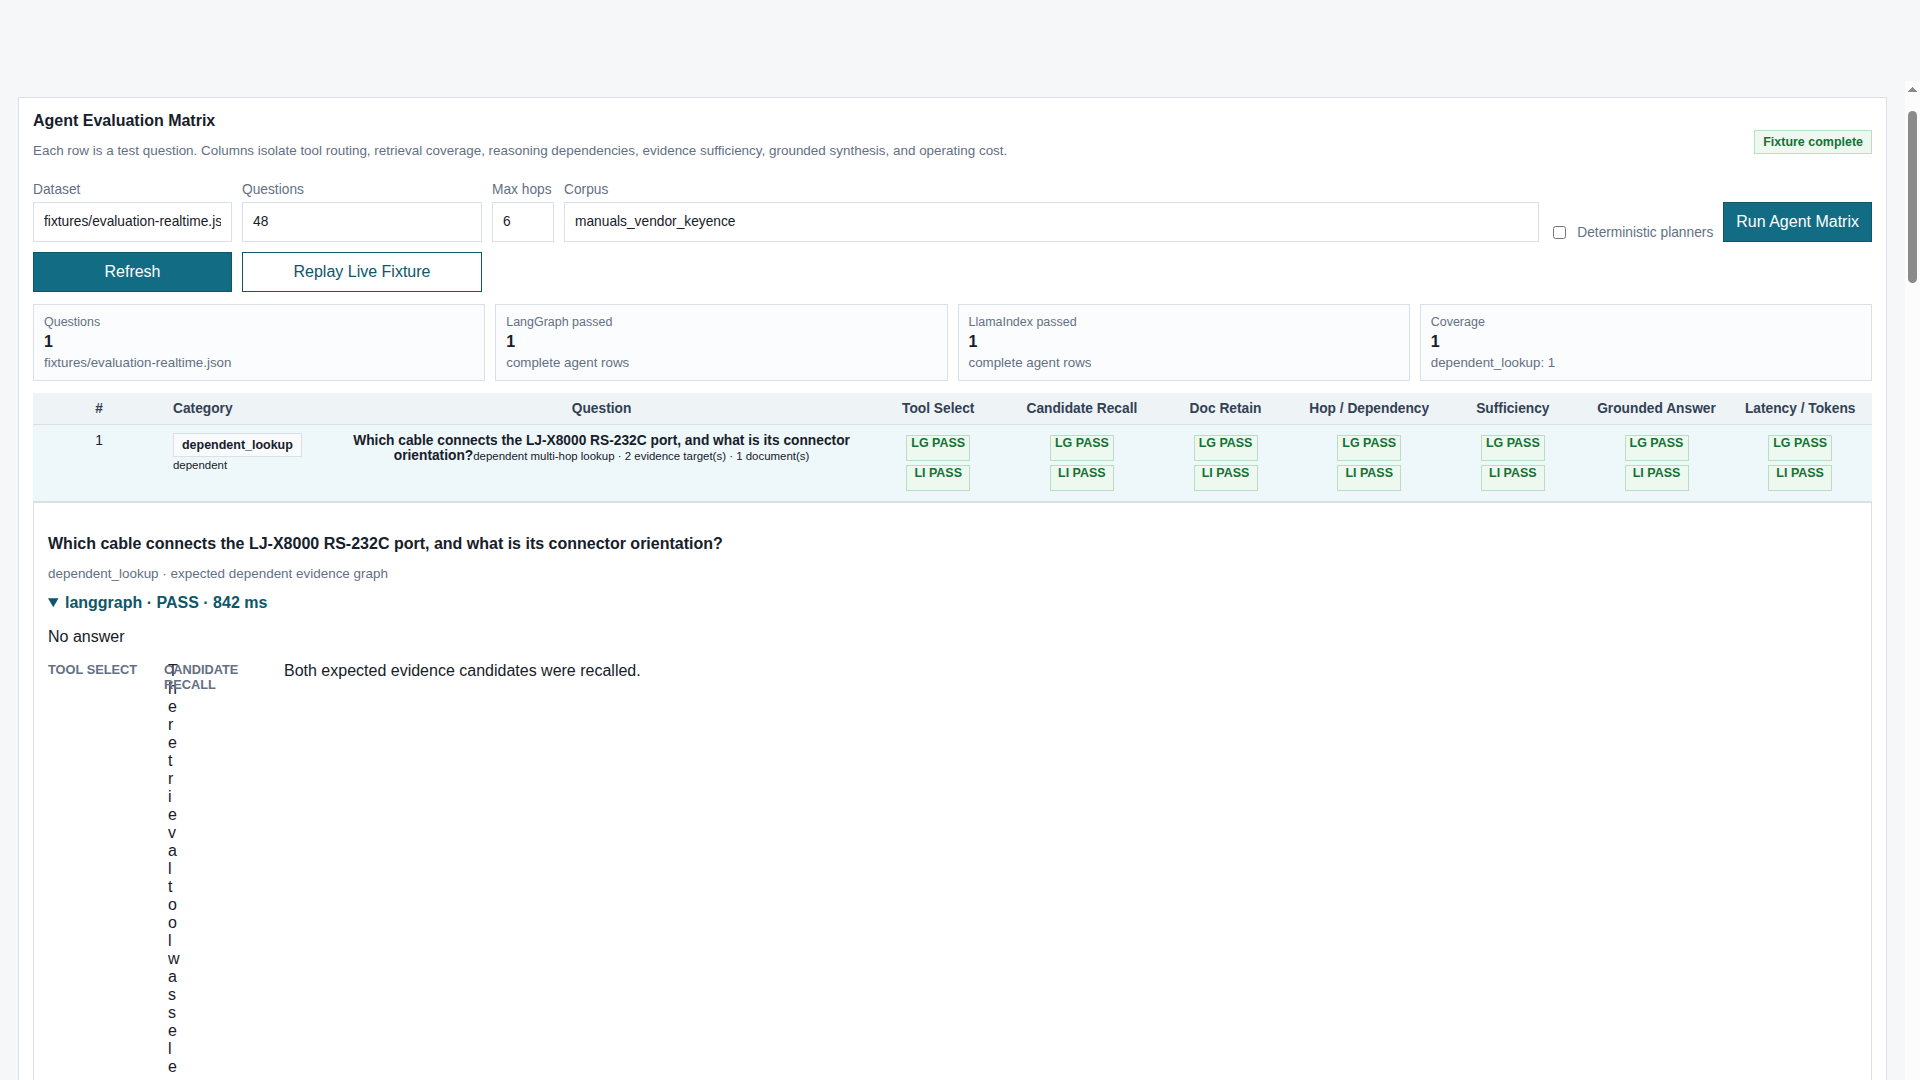
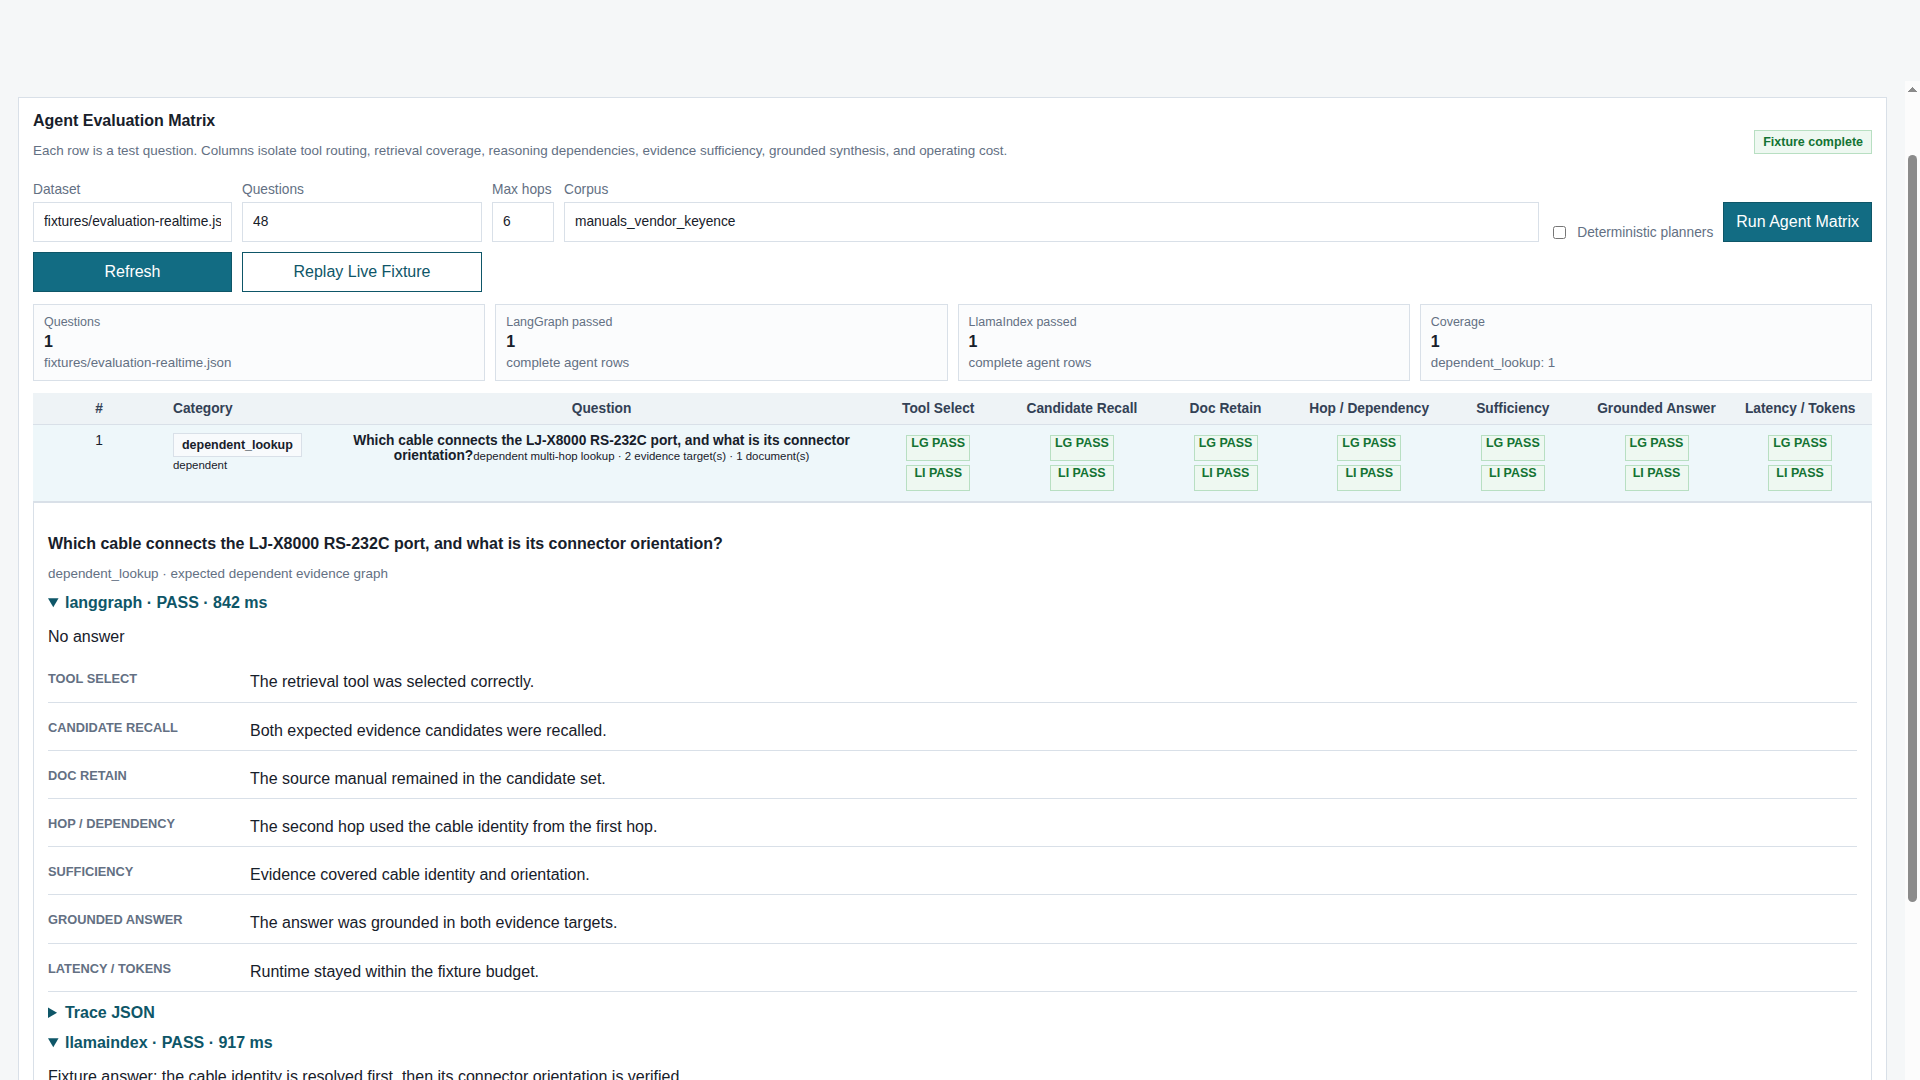
fix(ui): keep evaluation stage details readable

diff --git a/manuals_rag/apps/ui/app.js b/manuals_rag/apps/ui/app.js
@@ -3116,7 +3116,7 @@ function renderAgentMatrixDetail() {
         const result = row.result[backend] || {};
         return `<details open><summary><strong>${escapeHtml(backend)}</strong> · ${result.agent_evaluation?.passed ? "PASS" : "FAIL"} · ${Number(result.elapsed_ms || 0).toFixed(0)} ms</summary>
           <p>${escapeHtml(result.answer?.answer || "No answer")}</p>
-          <dl class="agent-hop-meta">${AGENT_MATRIX_LAYERS.map(([key, label]) => `<div><dt>${escapeHtml(label)}</dt><dd>${escapeHtml(result.agent_evaluation?.cells?.[key]?.detail || "Not scored")}</dd></div>`).join("")}</dl>
+          <dl class="agent-matrix-stage-details">${AGENT_MATRIX_LAYERS.map(([key, label]) => `<div><dt>${escapeHtml(label)}</dt><dd>${escapeHtml(result.agent_evaluation?.cells?.[key]?.detail || "Not scored")}</dd></div>`).join("")}</dl>
           <details><summary>Trace JSON</summary><pre>${escapeHtml(JSON.stringify(result.trace || {}, null, 2))}</pre></details>
         </details>`;
       }).join("")}

diff --git a/manuals_rag/apps/ui/styles.css b/manuals_rag/apps/ui/styles.css
@@ -640,6 +640,41 @@ summary {
   margin: 0.12rem;
 }
 
+.agent-matrix-stage-details {
+  display: grid;
+  grid-template-columns: 1fr;
+  gap: 8px;
+  margin: 12px 0;
+  min-width: 0;
+}
+
+.agent-matrix-stage-details > div {
+  display: grid;
+  grid-template-columns: minmax(150px, 190px) minmax(0, 1fr);
+  align-items: start;
+  gap: 12px;
+  min-width: 0;
+  border-bottom: 1px solid var(--line);
+  padding: 8px 0;
+}
+
+.agent-matrix-stage-details dt {
+  color: var(--muted);
+  font-size: 0.8rem;
+  font-weight: 700;
+  line-height: 1.35;
+  text-transform: uppercase;
+  overflow-wrap: normal;
+  word-break: normal;
+}
+
+.agent-matrix-stage-details dd {
+  min-width: 0;
+  margin: 0;
+  line-height: 1.45;
+  overflow-wrap: anywhere;
+}
+
 .agent-event-log ol {
   max-height: 220px;
   overflow: auto;
@@ -1713,6 +1748,11 @@ dd {
 
   dl {
     grid-template-columns: 1fr;
+  }
+
+  .agent-matrix-stage-details > div {
+    grid-template-columns: 1fr;
+    gap: 4px;
   }
 
   pre,

diff --git a/manuals_rag/apps/ui/test_evaluation_workspace.py b/manuals_rag/apps/ui/test_evaluation_workspace.py
@@ -65,6 +65,13 @@ class EvaluationWorkspaceContractTest(unittest.TestCase):
         self.assertIn('status: "provisional"', self.js)
         self.assertIn('label: "LIVE"', self.js)
 
+    def test_expanded_agent_stage_details_have_isolated_responsive_layout(self):
+        self.assertIn('class="agent-matrix-stage-details"', self.js)
+        self.assertIn(".agent-matrix-stage-details > div", self.css)
+        self.assertIn("grid-template-columns: minmax(150px, 190px) minmax(0, 1fr)", self.css)
+        self.assertIn("overflow-wrap: normal", self.css)
+        self.assertIn("word-break: normal", self.css)
+
 
 if __name__ == "__main__":
     unittest.main()
